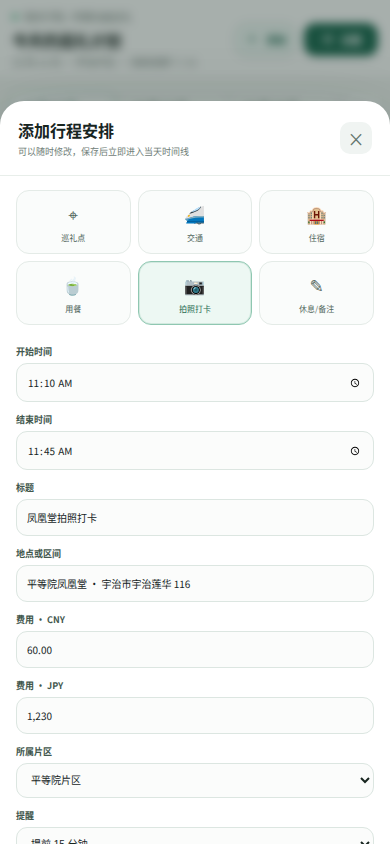
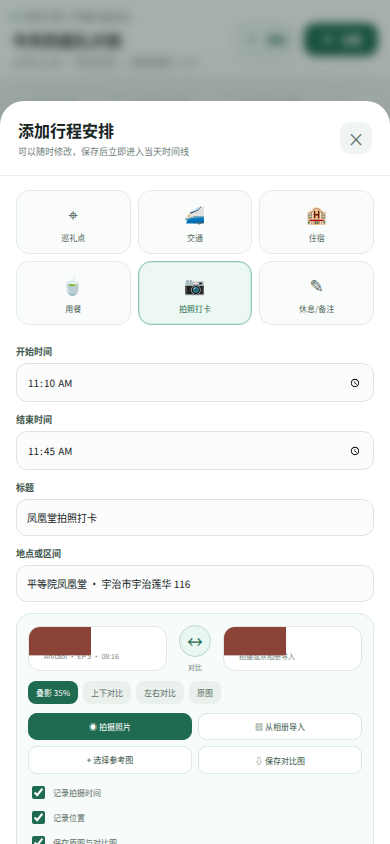
design: add photo comparison fields to check-in editor

Changed region(s): [[0.0308, 0.7085, 0.4923, 1.0], [0.5231, 0.8318, 0.8923, 0.9242], [0.4615, 0.7393, 0.7692, 0.8318]]

diff --git a/design/enikki-ui.html b/design/enikki-ui.html
@@ -132,6 +132,9 @@ button,input{font:inherit}button{border:0;cursor:pointer}svg{display:block}
 .section-grid{display:flex;flex-direction:column}.section-side{order:-1;display:block}.section-side>.card{flex:none!important;margin-bottom:10px}.section-main{order:0;display:block}
 .mobile-plan-actions{display:grid;grid-template-columns:repeat(2,1fr);gap:7px;margin:0 0 9px}.mobile-plan-actions button{display:flex;align-items:center;justify-content:center;gap:5px;padding:9px 5px;border:1px solid #dbe6df;border-radius:11px;color:#3d584d;background:#fff;font-size:8px;font-weight:750}.mobile-plan-actions button:first-child{color:var(--green);border-color:#bfdccd;background:#eff8f4}
 }
+.checkin-editor-fields{display:none;grid-column:1/-1;border:1px solid #dbe9e2;border-radius:15px;padding:11px;background:#f7fbf9}.plan-editor[data-selected-type="checkin"] .checkin-editor-fields{display:block}.plan-editor[data-selected-type="checkin"] .money-field{display:none}.photo-edit-grid{display:grid;grid-template-columns:1fr 58px 1fr;gap:8px;align-items:center}.photo-edit-card{display:block;overflow:hidden;border:1px solid #dfe8e3;border-radius:12px;background:#fff;text-align:left}.photo-edit-art{height:96px;position:relative;background:linear-gradient(145deg,#7aa796,#d4cc9c)}.photo-edit-card.actual .photo-edit-art{background:linear-gradient(145deg,#6f96ab,#d9b98d)}.photo-edit-art:before{content:"";position:absolute;width:112px;height:55px;left:50%;top:50%;transform:translate(-50%,-50%);background:#8b4237;clip-path:polygon(0 34%,16% 34%,22% 0,78% 0,84% 34%,100% 34%,100% 100%,0 100%)}.photo-edit-art:after{content:"";position:absolute;left:0;right:0;bottom:0;height:38px;background:#567a65;clip-path:polygon(0 34%,50% 0,100% 34%,100% 100%,0 100%)}.photo-edit-card b{display:block;padding:8px 9px 2px;color:#294238;font-size:9px}.photo-edit-card small{display:block;padding:0 9px 8px;color:#7a8982;font-size:7px}.compare-divider{display:grid;gap:5px;place-items:center;color:#6f8279;font-size:7px;text-align:center}.compare-divider button{width:40px;height:40px;border:1px solid #bcd9cc;border-radius:50%;color:var(--green);background:#e9f6f1;font-size:16px}.compare-options{display:flex;gap:5px;margin-top:9px}.compare-options button{padding:6px 8px;border-radius:8px;color:#5d7067;background:#eaf1ed;font-size:8px}.compare-options button.active{color:#fff;background:var(--green)}.photo-edit-actions{display:flex;flex-wrap:wrap;gap:6px;margin-top:9px}.photo-edit-actions button{padding:7px 9px;border:1px solid #dce8e2;border-radius:9px;color:#40594e;background:#fff;font-size:8px}.photo-edit-actions button.primary{color:#fff;border-color:var(--green);background:var(--green)}.photo-check-options{display:flex;gap:12px;margin-top:9px;color:#5e7168;font-size:8px}.photo-check-options label{display:flex;align-items:center;gap:5px}.photo-check-options input{accent-color:var(--green)}
+@media(max-width:760px){.photo-edit-grid{grid-template-columns:1fr 40px 1fr}.photo-edit-art{height:86px}.compare-divider button{width:32px;height:32px}.photo-edit-actions{display:grid;grid-template-columns:1fr 1fr}.photo-check-options{display:grid;gap:6px}}
+
 </style>
 </head>
 <body>
@@ -591,8 +594,18 @@ button,input{font:inherit}button{border:0;cursor:pointer}svg{display:block}
       <div class="field"><label>结束时间</label><input type="time" value="11:45"></div>
       <div class="field full"><label>标题</label><input id="planEditorName" value="凤凰堂参拜与拍照" placeholder="例如：宇治桥打卡"></div>
       <div class="field full"><label>地点或区间</label><input value="平等院凤凰堂 · 宇治市宇治莲华 116" placeholder="搜索地点或输入自定义位置"></div>
-      <div class="field"><label>费用 · CNY</label><input value="60.00"></div>
-      <div class="field"><label>费用 · JPY</label><input value="1,230"></div>
+      <div class="checkin-editor-fields">
+        <div class="photo-edit-grid">
+          <button class="photo-edit-card reference" onclick="toast('从 Anitabi 选择参考图')"><span class="photo-edit-art"></span><b>参考图</b><small>Anitabi · EP 5 · 08:16</small></button>
+          <div class="compare-divider"><button onclick="toast('已切换对比预览')">↔</button><span>对比</span></div>
+          <button class="photo-edit-card actual" onclick="toast('打开相机拍摄实景照片')"><span class="photo-edit-art"></span><b>实拍图</b><small>拍摄或从相册导入</small></button>
+        </div>
+        <div class="compare-options"><button class="active">叠影 35%</button><button>上下对比</button><button>左右对比</button><button>原图</button></div>
+        <div class="photo-edit-actions"><button class="primary" onclick="toast('相机已打开')">◉ 拍摄照片</button><button onclick="toast('打开系统相册')">▧ 从相册导入</button><button onclick="toast('已选择 Anitabi 参考图')">⌖ 选择参考图</button><button onclick="toast('对比图已保存到本地')">⇩ 保存对比图</button></div>
+        <div class="photo-check-options"><label><input type="checkbox" checked>记录拍摄时间</label><label><input type="checkbox" checked>记录位置</label><label><input type="checkbox" checked>保存原图与对比图</label></div>
+      </div>
+      <div class="field money-field"><label>费用 · CNY</label><input value="60.00"></div>
+      <div class="field money-field"><label>费用 · JPY</label><input value="1,230"></div>
       <div class="field"><label>所属片区</label><select><option>平等院片区</option><option>宇治站片区</option><option>大吉山片区</option></select></div>
       <div class="field"><label>提醒</label><select><option>提前 15 分钟</option><option>不提醒</option><option>提前 30 分钟</option></select></div>
       <div class="field full"><label>备注</label><textarea placeholder="交通路线、预约信息、拍摄要求或注意事项"></textarea></div>
@@ -711,6 +724,7 @@ let activePlanType = 'spot';
 
 function selectPlanType(type) {
   activePlanType = type;
+  document.querySelector('.plan-editor').dataset.selectedType = type;
   document.querySelectorAll('[data-plan-type]').forEach((button) => {
     button.classList.toggle('active', button.dataset.planType === type);
   });

diff --git a/docs/TRIP_PLANNING_ARCHITECTURE.md b/docs/TRIP_PLANNING_ARCHITECTURE.md
@@ -326,6 +326,7 @@ ExportTrip
 - 在任意事件之间插入新的 `PlanItem`；
 - 编辑开始时间、结束时间、标题、地点、片区、提醒和备注；
 - 添加巡礼点、交通、住宿、用餐、拍照打卡、休息和普通备注；
+- 拍照打卡类型提供参考图、实拍图、叠影/上下/左右对比、相册导入和对比图导出；
 - 输入 CNY 与 JPY，或输入原币种后自动换算；
 - 拖动调整顺序，锁定固定预约和交通；
 - 复制、删除、撤销和恢复安排；

diff --git a/design/README.md b/design/README.md
@@ -36,6 +36,9 @@ enikki-ui.html?view=offline
 
 ![手机端总览添加安排](preview-mobile-plan-add.png)
 
+选择“拍照打卡”类型后，表单会显示参考图与实拍图预览、叠影/上下/左右对比、
+拍摄、相册导入、选择 Anitabi 参考图、保存对比图，以及拍摄时间和位置选项。
+
 ### 交通规划
 
 ![交通规划](preview-transport.png)
